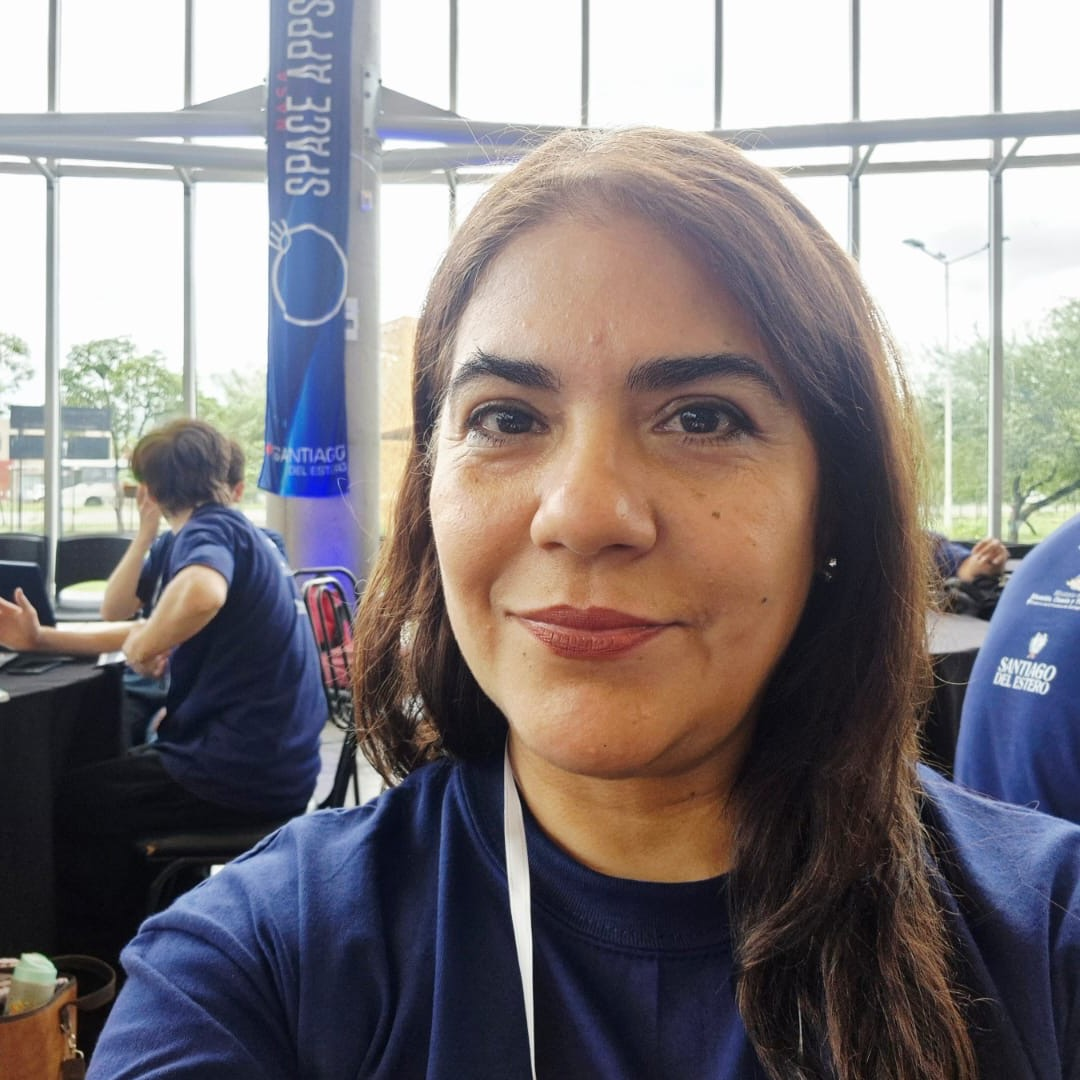
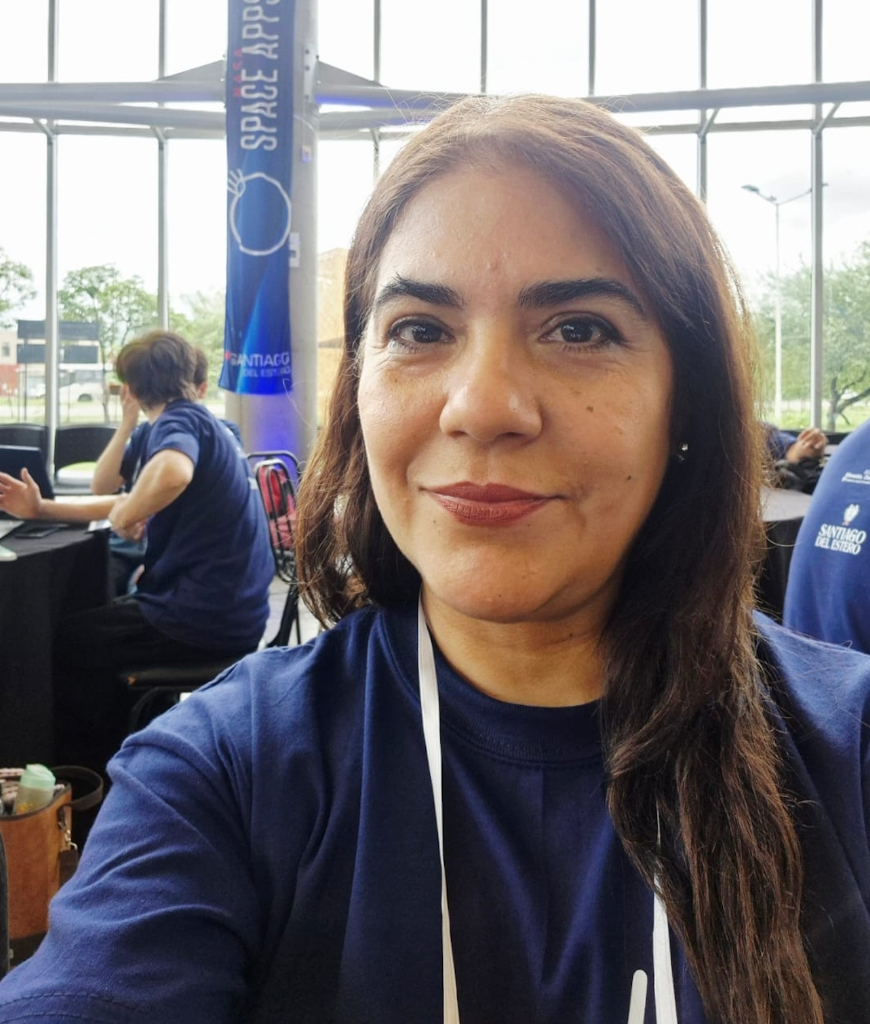
feat(intro): replace team image 2 with centered close-up and ambient contain framing

diff --git a/intro-showcase.js b/intro-showcase.js
@@ -27,7 +27,7 @@
     {
       index: 2,
       total: 7,
-      image: 'assets/team/2.jpeg',
+      image: 'assets/team/2.jpeg?v=2',
       badge: '02 / 07 · TERRITORIO',
       badgeEn: '02 / 07 · TERRITORY',
       name: 'Integrante 02 · Gestión Climática',
@@ -36,7 +36,8 @@
       bioEs: 'Relevamiento de necesidades de productores rurales y gobiernos locales frente a sequías prolongadas y anegamientos, traduciendo la ciencia de datos en protocolos de acción claros.',
       bioEn: 'Assessment of rural producers and local governments facing severe droughts and floods, translating data science into clear action protocols.',
       tags: ['Riesgo Hídrico', 'Impacto Social', 'Defensa Civil'],
-      objectPos: '50% 28%',
+      objectPos: '50% 35%',
+      fitContain: true,
       isGroup: false
     },
     {
@@ -447,26 +448,27 @@
 
               <!-- Foto del Integrante / Grupo -->
               <div class="lg:col-span-6 relative rounded-2xl overflow-hidden climate-intro-media-stage border border-cyan-500/30 shadow-2xl flex items-center justify-center min-h-[240px] sm:min-h-[300px] lg:min-h-[340px]">
-                <img id="intro-member-img" src="assets/team/1.jpeg" alt="Integrante del equipo CLIMATE" class="w-full h-full max-h-[380px] object-cover object-[center_18%] transition-all duration-500" />
-                <div class="pointer-events-none absolute inset-0 bg-gradient-to-t from-black/75 via-transparent to-black/20"></div>
+                <img id="intro-member-backdrop" src="assets/team/1.jpeg" alt="" aria-hidden="true" class="hidden pointer-events-none absolute inset-0 w-full h-full object-cover scale-110 blur-xl opacity-45" />
+                <img id="intro-member-img" src="assets/team/1.jpeg" alt="Integrante del equipo CLIMATE" class="relative z-[1] w-full h-full max-h-[380px] object-cover transition-all duration-500" />
+                <div class="pointer-events-none absolute inset-0 z-[2] bg-gradient-to-t from-black/75 via-transparent to-black/20"></div>
 
                 <!-- Badges sobre foto -->
-                <div class="absolute top-3 left-3 flex items-center gap-1.5">
+                <div class="absolute top-3 left-3 z-10 flex items-center gap-1.5">
                   <span id="intro-member-badge" class="px-2.5 py-1 rounded-lg bg-space-950/85 backdrop-blur-md border border-cyan-400/40 text-[10px] font-mono font-bold text-cyan-300 tracking-wider">
                     01 / 07 · MENTORÍA
                   </span>
                 </div>
 
                 <!-- Botones flotantes sobre la foto para escritorio/táctil -->
-                <button id="intro-member-prev-overlay" type="button" class="absolute left-2.5 top-1/2 -translate-y-1/2 w-9 h-9 rounded-full bg-black/55 hover:bg-cyan-600 text-white border border-white/20 flex items-center justify-center backdrop-blur-md transition cursor-pointer" aria-label="Anterior">
+                <button id="intro-member-prev-overlay" type="button" class="absolute left-2.5 top-1/2 -translate-y-1/2 z-10 w-9 h-9 rounded-full bg-black/55 hover:bg-cyan-600 text-white border border-white/20 flex items-center justify-center backdrop-blur-md transition cursor-pointer" aria-label="Anterior">
                   <i data-lucide="chevron-left" class="w-5 h-5"></i>
                 </button>
-                <button id="intro-member-next-overlay" type="button" class="absolute right-2.5 top-1/2 -translate-y-1/2 w-9 h-9 rounded-full bg-black/55 hover:bg-cyan-600 text-white border border-white/20 flex items-center justify-center backdrop-blur-md transition cursor-pointer" aria-label="Siguiente">
+                <button id="intro-member-next-overlay" type="button" class="absolute right-2.5 top-1/2 -translate-y-1/2 z-10 w-9 h-9 rounded-full bg-black/55 hover:bg-cyan-600 text-white border border-white/20 flex items-center justify-center backdrop-blur-md transition cursor-pointer" aria-label="Siguiente">
                   <i data-lucide="chevron-right" class="w-5 h-5"></i>
                 </button>
 
                 <!-- Barra de progreso de slide -->
-                <div class="absolute bottom-0 left-0 right-0 h-1 bg-white/15">
+                <div class="absolute bottom-0 left-0 right-0 z-10 h-1 bg-white/15">
                   <div id="intro-slide-progress" class="h-full bg-gradient-to-r from-cyan-400 to-emerald-400 transition-[width] duration-75" style="width: 0%"></div>
                 </div>
               </div>
@@ -744,6 +746,7 @@
     `;
 
     // DOM refs
+    const memberBackdropEl = document.getElementById('intro-member-backdrop');
     const memberImgEl = document.getElementById('intro-member-img');
     const memberBadgeEl = document.getElementById('intro-member-badge');
     const memberNameEl = document.getElementById('intro-member-name');
@@ -794,11 +797,17 @@
         void memberImgEl.offsetWidth;
         memberImgEl.src = slide.image;
         memberImgEl.alt = slide.name;
-        if (slide.isGroup) {
-          memberImgEl.className = 'w-full h-full max-h-[380px] object-contain bg-black transition-all duration-500 climate-photo-motion';
-          memberImgEl.style.objectPosition = slide.objectPos || '50% 50%';
+        if (slide.isGroup || slide.fitContain) {
+          if (memberBackdropEl) {
+            memberBackdropEl.src = slide.image;
+            memberBackdropEl.style.objectPosition = slide.objectPos || '50% 50%';
+            memberBackdropEl.classList.remove('hidden');
+          }
+          memberImgEl.className = 'relative z-[1] w-full h-full max-h-[380px] object-contain drop-shadow-2xl transition-all duration-500 climate-photo-motion';
+          memberImgEl.style.objectPosition = '50% 50%';
         } else {
-          memberImgEl.className = 'w-full h-full max-h-[380px] object-cover transition-all duration-500 climate-photo-motion';
+          if (memberBackdropEl) memberBackdropEl.classList.add('hidden');
+          memberImgEl.className = 'relative z-[1] w-full h-full max-h-[380px] object-cover transition-all duration-500 climate-photo-motion';
           memberImgEl.style.objectPosition = slide.objectPos || '50% 22%';
         }
       }
